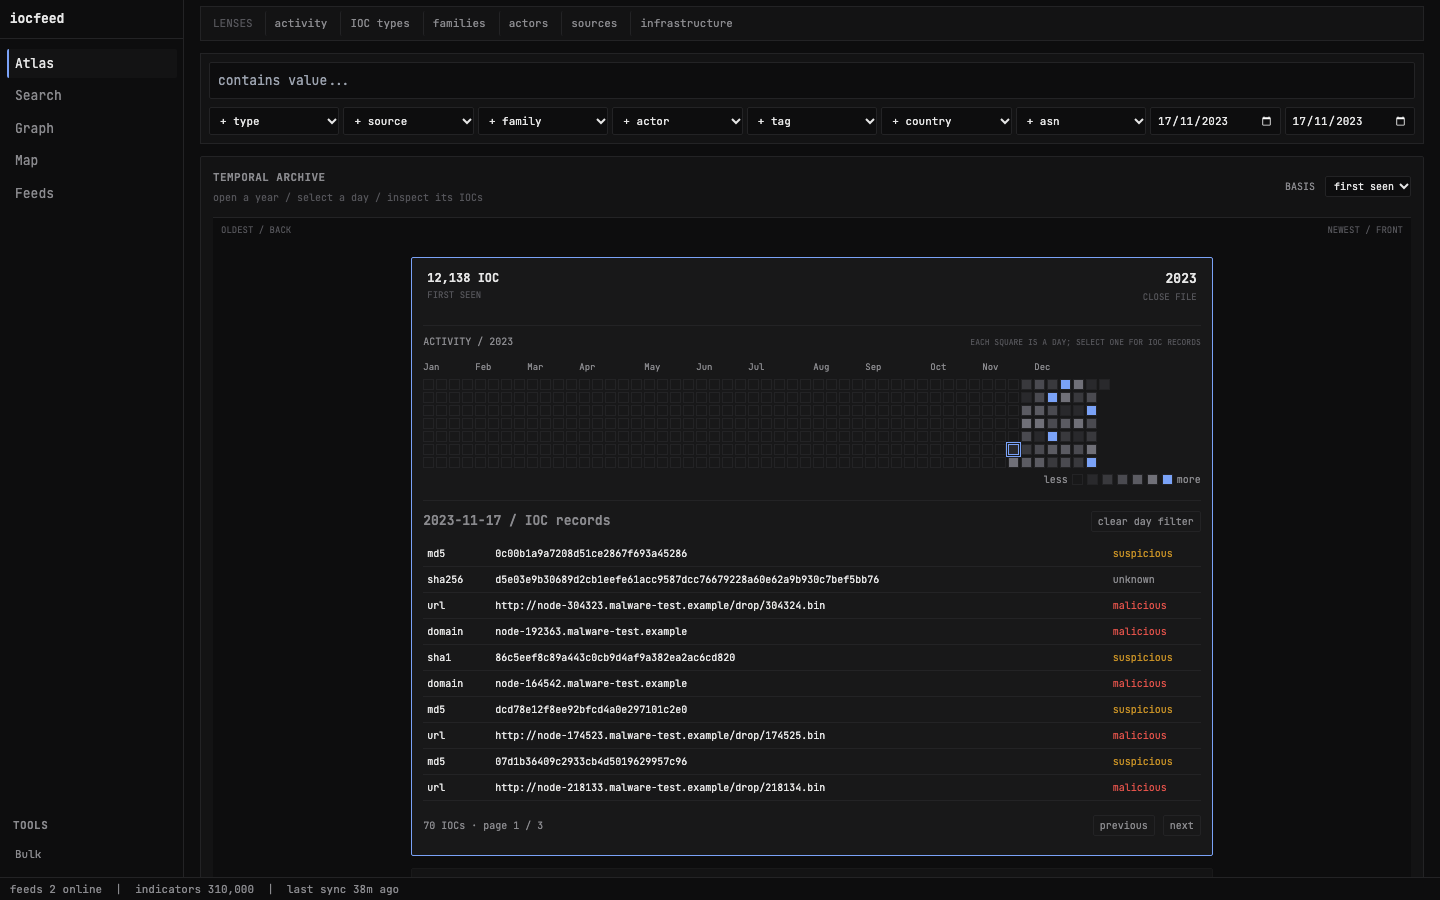
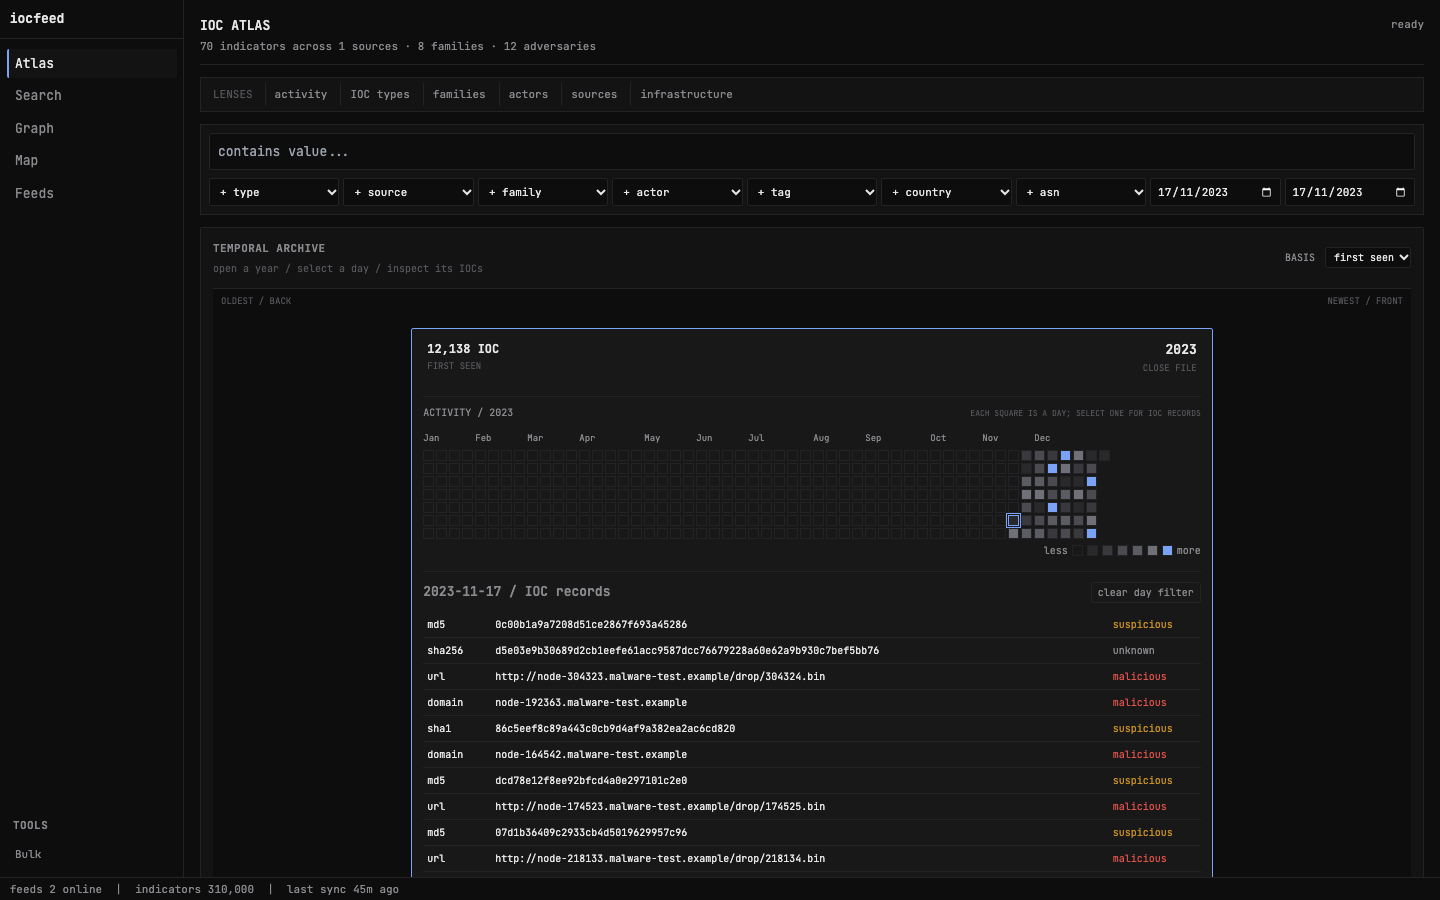
fix: reveal archive IOC section only after day selection

diff --git a/frontend/src/pages/Dashboard.tsx b/frontend/src/pages/Dashboard.tsx
@@ -555,53 +555,44 @@ function TemporalArchive({
                         ))}
                         <span>more</span>
                       </div>
-                      <div className="archive-results" aria-live="polite">
-                        {selectedDate && selectedDate.startsWith(`${item.year}-`) ? (
-                          <>
-                            <div className="archive-results-heading">
-                              <strong>{selectedDate} / IOC records</strong>
-                              <button onClick={clearDate}>clear day filter</button>
-                            </div>
-                            <div className="archive-results-scroll">
-                              {!rows && <p>Loading IOC records…</p>}
-                              {rows?.items.map((row) => (
-                                <button
-                                  key={row.id}
-                                  className="archive-result"
-                                  onClick={() => openIOC(row.id)}
-                                >
-                                  <span>{row.type}</span>
-                                  <span>{row.value}</span>
-                                  <span className={`verdict-${row.verdict}`}>{row.verdict}</span>
-                                </button>
-                              ))}
-                              {rows && rows.items.length === 0 && (
-                                <p>No matching IOCs on this day.</p>
-                              )}
-                            </div>
-                            <div className="archive-results-page">
-                              <span>
-                                {rows
-                                  ? `${rows.total.toLocaleString()} IOCs · page ${page} / ${totalPages}`
-                                  : 'Loading IOC records…'}
-                              </span>
-                              <button disabled={page <= 1} onClick={() => setPage(page - 1)}>
-                                previous
-                              </button>
+                      {selectedDate && selectedDate.startsWith(`${item.year}-`) && (
+                        <div className="archive-results" aria-live="polite">
+                          <div className="archive-results-heading">
+                            <strong>{selectedDate} / IOC records</strong>
+                            <button onClick={clearDate}>clear day filter</button>
+                          </div>
+                          <div className="archive-results-scroll">
+                            {!rows && <p>Loading IOC records…</p>}
+                            {rows?.items.map((row) => (
                               <button
-                                disabled={page >= totalPages}
-                                onClick={() => setPage(page + 1)}
+                                key={row.id}
+                                className="archive-result"
+                                onClick={() => openIOC(row.id)}
                               >
-                                next
+                                <span>{row.type}</span>
+                                <span>{row.value}</span>
+                                <span className={`verdict-${row.verdict}`}>{row.verdict}</span>
                               </button>
-                            </div>
-                          </>
-                        ) : (
-                          <p className="archive-results-prompt">
-                            Select a day to inspect its IOC records.
-                          </p>
-                        )}
-                      </div>
+                            ))}
+                            {rows && rows.items.length === 0 && (
+                              <p>No matching IOCs on this day.</p>
+                            )}
+                          </div>
+                          <div className="archive-results-page">
+                            <span>
+                              {rows
+                                ? `${rows.total.toLocaleString()} IOCs · page ${page} / ${totalPages}`
+                                : 'Loading IOC records…'}
+                            </span>
+                            <button disabled={page <= 1} onClick={() => setPage(page - 1)}>
+                              previous
+                            </button>
+                            <button disabled={page >= totalPages} onClick={() => setPage(page + 1)}>
+                              next
+                            </button>
+                          </div>
+                        </div>
+                      )}
                     </div>
                   )}
                 </div>

diff --git a/frontend/src/index.css b/frontend/src/index.css
@@ -499,12 +499,6 @@ input[type='range'] {
   height: 40px;
   padding: 8px 0;
 }
-.archive-results-prompt {
-  margin: 0;
-  padding: 12px 0;
-  color: var(--color-text-secondary);
-  font-size: 11px;
-}
 .archive-results-heading button {
   margin-left: auto;
 }

diff --git a/docs/functionality-audit.md b/docs/functionality-audit.md
@@ -21,7 +21,7 @@ The HexBrain reference influenced the breadcrumb hierarchy, ranked search-to-det
 
 ## Checks passed
 
-- Atlas: year labels appear on the right of each file, with no tabs. Clicking the full file body opens or closes the year. The hover surface moves independently of its fixed click area. Files start closed and reveal a full-year daily heatmap with month markers and seven distinct color levels. The day list keeps a fixed size during selection, loading, and clearing. Filter controls keep consistent widths as their options change. The audit also checked six exploration lenses, IOC preview, Escape close, URL-backed facets, sorting, page size, and pagination.
+- Atlas: year labels appear on the right of each file, with no tabs. Clicking the full file body opens or closes the year. The hover surface moves independently of its fixed click area. Files start closed and reveal a full-year daily heatmap with month markers and seven distinct color levels. No IOC section or reserved blank area appears before a day is selected. Selecting a day expands the IOC list below the heatmap; clearing it restores the compact file. The list keeps a fixed size during loading and subsequent day changes. Filter controls keep consistent widths as their options change. The audit also checked six exploration lenses, IOC preview, Escape close, URL-backed facets, sorting, page size, and pagination.
 - Collections: permanent family/type/source/actor/tag/country/ASN routes, activity strip, contextual pivots, indicator table, and Atlas handoff.
 - IOC records: explainable disposition, confidence factors, classification, explicit relationships, metadata pivots, graph handoff, and raw observations.
 - Evidence: one locally rendered page per IOC/source observation, normalized fields, raw JSON, attribution, and upstream link handling.
@@ -34,6 +34,6 @@ The HexBrain reference influenced the breadcrumb hierarchy, ranked search-to-det
 - APIs: health, summary, facets, time series, indicator rows, entity collections, detailed IOC records, source evidence, graph, graph expansion, graph path, geo points, timeline, ingestion log, and CSV/JSON/blocklist exports.
 - Browser: no console errors during the complete flow.
 
-The automated audit recorded 58 passing checks and zero failures. The focused archive audit (`frontend/scripts/audit-archive.mjs`) repeated day selections and clearing across all four years, observing 400 animation frames without a file changing position or a heatmap cell being covered. It also verified full-file controls, right-side years, keyboard opening at 820px, and reduced motion; its result is in `frontend/artifacts/functionality/archive-report.json`.
+The latest full app audit recorded 58 passing checks and zero failures. The focused archive audit (`frontend/scripts/audit-archive.mjs`) checks compact year opening, expansion only after a day click, collapse when cleared, and repeated day selection across all four years. The focused run passed all 53 checks over 406 animation frames, confirming that the heatmap stays stationary and uncovered during expansion and collapse, and that the full file remains stable during subsequent day changes. It also verified full-file controls, right-side years, keyboard opening at 820px, and reduced motion; its result is in `frontend/artifacts/functionality/archive-report.json`.
 
 Frontend unit tests (4), ESLint, TypeScript, and the production build pass. Backend tests from the preceding data update passed (15 passed, 3 integration tests skipped without their opt-in flag). PostgreSQL and the API both confirmed 310,000 stored IOCs; a last-seen day with two stored IOCs returned two API records. The scheduled ingestion worker is stopped and excluded from default Compose startup.

diff --git a/docs/design.md b/docs/design.md
@@ -36,7 +36,7 @@ JetBrains Mono is the only typeface. Body text is 13px with 1.5 line height. Sec
 
 - Graph nodes are neutral flat shapes. Type is conveyed by shape, malicious by a red outline, and selection by the accent outline. No particles, glow, pulse, or persistent labels.
 - Explorer dimensions use sorted neutral bar tables, and every row is both filterable and inspectable.
-- Time activity is a temporal archive: year files are ordered oldest/back to newest/front. There are no tabs; the year sits on the right of each file, and the entire closed file is a button. No file opens by default. Hover moves only the decorative surface and dims siblings; click areas and stacking order stay fixed. Opening a file separates it from its neighbours in normal document flow. When a file is open, other files stay still and dimmed. The open file contains a full-year, seven-row daily heatmap with month labels and a fixed-size IOC list area, so day selection, loading, pagination, and clearing do not move the stack. Use the full-width header to close it. Populated days use five neutral levels based on that year's count quantiles; zero days use the darkest step and only the busiest tenth use the accent.
+- Time activity is a temporal archive: year files are ordered oldest/back to newest/front. There are no tabs; the year sits on the right of each file, and the entire closed file is a button. No file opens by default. Hover moves only the decorative surface and dims siblings; click areas and stacking order stay fixed. Opening a file separates it from its neighbours in normal document flow. When a file is open, other files stay still and dimmed. The open file initially contains only a full-year, seven-row daily heatmap with month labels. Render the IOC list area only after a day is selected and remove it when the day filter is cleared. Keep the heatmap and file header stationary when that area expands or collapses; once visible, keep the list size stable through loading, day changes, and pagination. Use the full-width header to close it. Populated days use five neutral levels based on that year's count quantiles; zero days use the darkest step and only the busiest tenth use the accent.
 - Geo uses a flat equirectangular SVG with unfilled country outlines and 3px semantic dots.
 - Timeline is a native range input over a 1px ticked baseline.
 
